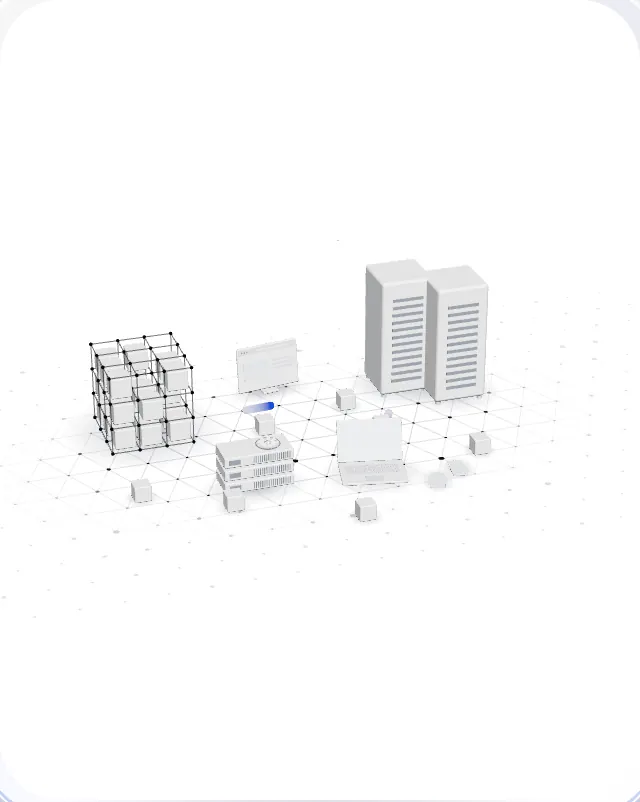
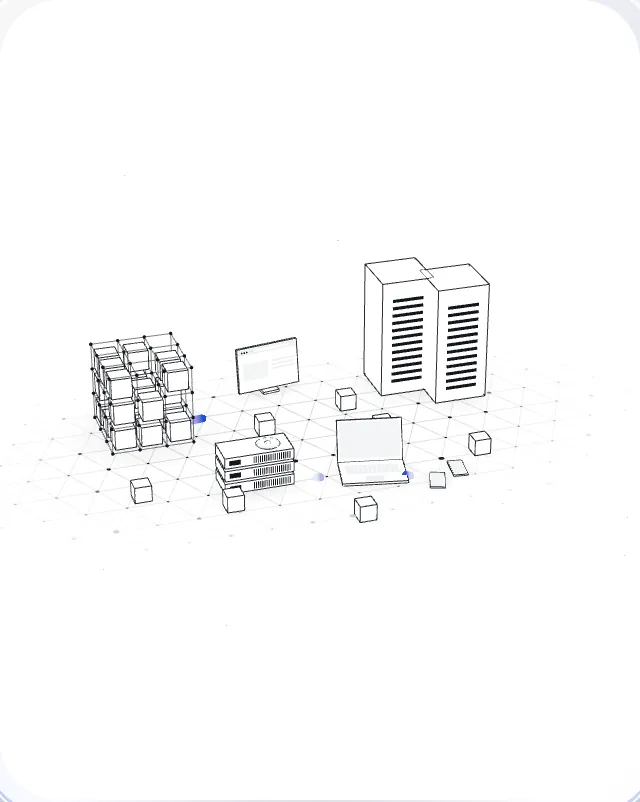
Room 3D : objets en dessin au trait, fils en éventail vers la toile, influx neuronaux et cascades à chaque message (style Bittensor)
Claude-Session: https://claude.ai/code/session_01JuJMrnUTFb6brfj3MM8BZk

diff --git a/assets/rooms/room-3d.js b/assets/rooms/room-3d.js
@@ -102,7 +102,7 @@ const reduit = matchMedia('(prefers-reduced-motion: reduce)').matches;
 const renderer = new THREE.WebGLRenderer({ antialias: true, alpha: true });
 const qualite = { dpr: Math.min(2, devicePixelRatio), n: 0, somme: 0 }; // quatre marches au plus : 2 → 1,5 → 1
 renderer.setPixelRatio(qualite.dpr);
-renderer.toneMapping = THREE.ACESFilmicToneMapping; renderer.toneMappingExposure = 1.05;
+renderer.toneMapping = THREE.NoToneMapping; // style encre : blanc pur et noir pur, sans rendu photographique
 renderer.outputColorSpace = THREE.SRGBColorSpace;
 host.appendChild(renderer.domElement);
 const scene = new THREE.Scene();
@@ -112,21 +112,23 @@ const camera = new THREE.PerspectiveCamera(C.camera.fov, 1, 0.1, 100);
 const ENCRE = new THREE.Color(C.couleurs.encre), BLEU = new THREE.Color(C.couleurs.bleu), BLANC = new THREE.Color('#ffffff');
 
 /* ── Matériaux : argile blanche mate + arêtes fines à l'encre, comme sur les images de référence ── */
-const argile = new THREE.MeshStandardMaterial({ color: C.couleurs.argile, roughness: .62, metalness: 0, envMapIntensity: .9 });
-const argileSombre = new THREE.MeshStandardMaterial({ color: '#c9ced6', roughness: .7 });
-const fente = new THREE.MeshStandardMaterial({ color: '#7d838e', roughness: .8 });
-const ecran = new THREE.MeshStandardMaterial({ color: '#dfe4ec', roughness: .25, metalness: 0 });
-const trait = new THREE.LineBasicMaterial({ color: C.couleurs.encre, transparent: true, opacity: .45 });
+// Style encre : chaque objet est un dessin technique (aplat blanc, contours noirs nets), comme la toile de la Room.
+const argile = new THREE.MeshBasicMaterial({ color: '#ffffff' });
+const argileSombre = new THREE.MeshBasicMaterial({ color: '#eef0f3' });
+const fente = new THREE.MeshBasicMaterial({ color: C.couleurs.encre });
+const ecran = new THREE.MeshBasicMaterial({ color: '#f4f5f7' });
+const trait = new THREE.LineBasicMaterial({ color: C.couleurs.encre, transparent: true, opacity: .9 });
 function piece(geo, mat, parent, x = 0, y = 0, z = 0, aretes = true) {
   const m = new THREE.Mesh(geo, mat); m.position.set(x, y, z); parent.add(m);
-  if (aretes) m.add(new THREE.LineSegments(new THREE.EdgesGeometry(geo, 35), trait));
+  // Contour net : pour une boîte arrondie, on trace le contour de la boîte droite (un seul trait par arête, pas les facettes de l'arrondi).
+  if (aretes) { const b = geo.userData.boite; m.add(new THREE.LineSegments(b ? new THREE.EdgesGeometry(new THREE.BoxGeometry(...b)) : new THREE.EdgesGeometry(geo, 35), trait)); }
   return m;
 }
-const bloc = (w, h, d, r = 0.02) => new RoundedBoxGeometry(w, h, d, 3, Math.min(r, w / 2 - 1e-3, h / 2 - 1e-3, d / 2 - 1e-3));
+const bloc = (w, h, d, r = 0.02) => { const g = new RoundedBoxGeometry(w, h, d, 3, Math.min(r, w / 2 - 1e-3, h / 2 - 1e-3, d / 2 - 1e-3)); g.userData.boite = [w, h, d]; return g; };
 
 /* ── Ombre de contact douce (texture dégradée), posée sous chaque objet ── */
 const texOmbre = (() => { const c = document.createElement('canvas'); c.width = c.height = 128; const g = c.getContext('2d');
-  const r = g.createRadialGradient(64, 64, 0, 64, 64, 64); r.addColorStop(0, 'rgba(20,23,28,.42)'); r.addColorStop(.55, 'rgba(20,23,28,.12)'); r.addColorStop(1, 'rgba(20,23,28,0)');
+  const r = g.createRadialGradient(64, 64, 0, 64, 64, 64); r.addColorStop(0, 'rgba(20,23,28,.16)'); r.addColorStop(.55, 'rgba(20,23,28,.05)'); r.addColorStop(1, 'rgba(20,23,28,0)');
   g.fillStyle = r; g.fillRect(0, 0, 128, 128); return new THREE.CanvasTexture(c); })();
 function ombre(parent, w, d) { const m = new THREE.Mesh(new THREE.PlaneGeometry(w, d), new THREE.MeshBasicMaterial({ map: texOmbre, transparent: true, depthWrite: false }));
   m.rotation.x = -Math.PI / 2; m.position.y = 0.002; m.renderOrder = -1; parent.add(m); (parent.userData.ombres ||= []).push(m.material); }
@@ -201,21 +203,21 @@ const FORMES = {
     ombre(g, .85, .45);
   },
   camion(g) {
-    const noir = new THREE.MeshStandardMaterial({ color: '#2a2e35', roughness: .8 });
+    const noir = new THREE.MeshBasicMaterial({ color: C.couleurs.encre });
     piece(bloc(.62, .34, .32, .02), argile, g, -.1, .1 + .17, 0);           // caisse
     piece(bloc(.24, .26, .3, .03), argile, g, .34, .1 + .13, 0);              // cabine
     piece(new THREE.BoxGeometry(.012, .1, .24), ecran, g, .462, .3, 0, false); // pare-brise
     piece(new THREE.BoxGeometry(.86, .04, .26), argileSombre, g, .02, .08, 0, false);
     [[-.3, 1], [-.3, -1], [.05, 1], [.05, -1], [.34, 1], [.34, -1]].forEach(([x, z]) => piece(new THREE.CylinderGeometry(.06, .06, .05, 20).rotateX(Math.PI / 2), noir, g, x, .06, z * .15, false));
     // Bande et toit peints : leur couleur montre la dernière information reçue.
-    const peinture = new THREE.MeshStandardMaterial({ color: C.couleurs.neutre, roughness: .5 }); g.userData.peinture = peinture;
+    const peinture = new THREE.MeshBasicMaterial({ color: C.couleurs.neutre }); g.userData.peinture = peinture;
     piece(new THREE.BoxGeometry(.6, .07, .326), peinture, g, -.1, .37, 0, false);
     piece(new THREE.BoxGeometry(.5, .012, .25), peinture, g, -.1, .446, 0, false);
     piece(new THREE.BoxGeometry(.2, .012, .22), peinture, g, .34, .366, 0, false);
     ombre(g, 1.1, .55);
   },
   drone(g) { // corps, quatre bras, hélices (disques flous), plaque de statut colorée
-    const peinture = new THREE.MeshStandardMaterial({ color: C.couleurs.neutre, roughness: .45 }); g.userData.peinture = peinture;
+    const peinture = new THREE.MeshBasicMaterial({ color: C.couleurs.neutre }); g.userData.peinture = peinture;
     const flou = new THREE.MeshBasicMaterial({ color: '#cfd5df', transparent: true, opacity: .55, depthWrite: false });
     piece(bloc(.17, .05, .17, .018), argile, g, 0, 0, 0);
     piece(new THREE.CylinderGeometry(.045, .045, .008, 24), peinture, g, 0, .03, 0, false);
@@ -299,6 +301,7 @@ const sommets = [], aretes = [];
   for (let i = 0; i < pa.count; i += 3) { const t = [id(i), id(i + 1), id(i + 2)]; [[0, 1], [1, 2], [2, 0]].forEach(([a, b]) => { const x = Math.min(t[a], t[b]), y = Math.max(t[a], t[b]), k = x + ',' + y; if (!vus.has(k)) { vus.add(k); aretes.push([x, y]); } }); }
 }
 const PROF = `float prof(vec3 p){ vec4 mv=modelViewMatrix*vec4(p,1.); float zc=(modelViewMatrix*vec4(0.,0.,0.,1.)).z; return clamp(.6+(mv.z-zc)*.32,.2,1.); }`;
+const noeudsToile = []; // nœuds de la toile (repère de la Room)
 const uRevele = { value: 0 }, uAttenue = { value: 1 }; // uAttenue : la bulle s'efface un peu quand les échanges commencent
 {
   const p = [], h = [];
@@ -313,6 +316,7 @@ const uRevele = { value: 0 }, uAttenue = { value: 1 }; // uAttenue : la bulle s'
   room.add(new THREE.LineSegments(g, matArete));
   // La toile : un sous-ensemble régulier de nœuds, chacun relié à TOUS les autres (multi-pair à pair, littéralement).
   const pas = Math.max(1, Math.floor(sommets.length / C.toile.noeuds)), choisis = sommets.filter((_, i) => i % pas === 0), tp = [];
+  noeudsToile.push(...choisis);
   for (let i = 0; i < choisis.length; i++) for (let j = i + 1; j < choisis.length; j++) tp.push(...choisis[i].toArray(), ...choisis[j].toArray());
   const tg = new THREE.BufferGeometry(); tg.setAttribute('position', new THREE.Float32BufferAttribute(tp, 3));
   const matToile = matArete.clone(); matToile.uniforms = { ...matArete.uniforms, uK: { value: C.toile.opacite } };
@@ -390,7 +394,7 @@ function tenter() {
 const cible = new THREE.Vector3(); let W = 1, H = 1, etroit = false;
 function cadrer() {
   W = host.clientWidth; H = host.clientHeight; etroit = W < 820;
-  renderer.setSize(W, H, false); camera.aspect = W / H; tMat.resolution.set(W, H); lMat.resolution.set(W, H); if (window.__fMat) window.__fMat.resolution.set(W, H);
+  renderer.setSize(W, H, false); camera.aspect = W / H; tMat.resolution.set(W, H); lMat.resolution.set(W, H); if (window.__fMat) window.__fMat.resolution.set(W, H); if (window.__iMat) window.__iMat.resolution.set(W, H);
   membres.forEach(g => g.userData.surSol = new THREE.Vector3(g.userData.x * (etroit ? .62 : 1), 0, g.userData.z));
 }
 let zoom = 0, decal = 0, vueRoute = 0; // vueRoute : la caméra regarde les routes (cas « flotte ») // decal : recentre la scène pendant les cas d'usage
@@ -461,7 +465,12 @@ for (let i = 0; i < MAXP; i++) paqMesh.setColorAt(i, COUL.encre); // couleur par
 let paquets = [];
 function envoyer(a, b, dur, o = {}) { paquets.push({ a, b, t0: horloge + (o.delai || 0), dur, taille: o.taille || .042, fin: o.fin, couleur: o.couleur || COUL.encre }); }
 // Point d'attache du fil sur la bulle : là où la ligne élément → centre traverse la sphère.
-const ancre = (p, out) => out.copy(p).sub(centreRoom).normalize().multiplyScalar(R.rayon * .98).add(centreRoom);
+const noeudMonde = (i, out) => out.copy(noeudsToile[i]).applyMatrix4(room.matrixWorld);
+// Les K nœuds de la toile les plus proches d'un point (en coordonnées du monde).
+const _nw = new THREE.Vector3();
+function plusProches(p, K) { const d = noeudsToile.map((_, i) => [i, noeudMonde(i, _nw).distanceToSquared(p)]); d.sort((a, b) => a[1] - b[1]); return d.slice(0, K).map(x => x[0]); }
+// Point d'attache : le nœud de la toile le plus proche (la donnée entre par un vrai nœud du réseau).
+const ancre = (p, out) => noeudMonde(plusProches(p, 1)[0], out);
 function posPaquet(p, t, out) {
   const sa = p.a.isObject3D && p.a.userData.satellite, sb = p.b.isObject3D && p.b.userData.satellite;
   if (sa || sb) { // le long du fil : élément extérieur → bord de la bulle → centre de la Room (ou l'inverse)
@@ -483,13 +492,25 @@ let cristalCible = 0, cristalPouls = 0;
 const cerclesLocaux = C.roles.entraineurs.map(() => { const pts = new THREE.EllipseCurve(0, 0, 1, 1, 0, Math.PI * 1.6).getPoints(40).map(p => new THREE.Vector3(p.x, 0, p.y));
   const l = new THREE.Line(new THREE.BufferGeometry().setFromPoints(pts), new THREE.LineBasicMaterial({ color: C.couleurs.encre, transparent: true, opacity: 0 })); scene.add(l); return l; });
 // Fils : un trait fin de chaque élément extérieur jusqu'à la bulle ; il s'éclaire quand une donnée y passe.
-const MAXF = tousSat.length, fPos = new Float32Array(MAXF * 6), fCol = new Float32Array(MAXF * 6).fill(1);
+const EVENTAIL = 6, MAXF = tousSat.length * EVENTAIL, fPos = new Float32Array(MAXF * 6), fCol = new Float32Array(MAXF * 6).fill(1);
 const fGeo = new LineSegmentsGeometry(); fGeo.setPositions(fPos); fGeo.setColors(fCol);
-const fMat = new LineMaterial({ vertexColors: true, linewidth: 1.6, worldUnits: false });
+const fMat = new LineMaterial({ vertexColors: true, linewidth: 1.1, worldUnits: false });
 window.__fMat = fMat; fMat.resolution.set(W, H);
 const fLignes = new LineSegments2(fGeo, fMat); fLignes.frustumCulled = false; scene.add(fLignes);
 const FIL = new THREE.Color(C.couleurs.encre).lerp(BLANC, .72);
 const puceEvt = puce('', 'r3d-chip r3d-c');
+/* Influx : une impulsion qui file d'un nœud à un autre (tête nette, queue qui s'efface), comme un signal dans un réseau de neurones.
+   En fond, quelques influx noirs discrets : la Room vit. Lors d'un message, une cascade bleue (ou noire) part du nœud d'entrée. */
+const MAXI = 160, iPos = new Float32Array(MAXI * 6), iCol = new Float32Array(MAXI * 6).fill(1);
+const iGeo = new LineSegmentsGeometry(); iGeo.setPositions(iPos); iGeo.setColors(iCol);
+const iMat = new LineMaterial({ vertexColors: true, linewidth: 1.4, worldUnits: false }); window.__iMat = iMat; iMat.resolution.set(W, H);
+const iLignes = new LineSegments2(iGeo, iMat); iLignes.frustumCulled = false; scene.add(iLignes);
+let influx = [];
+function influer(i, j, coul, o = {}) { if (influx.length < MAXI) influx.push({ i, j, t0: horloge + (o.delai || 0), dur: o.dur || .45, coul, force: o.force || 1 }); }
+// Cascade : le nœud d'entrée excite plusieurs voisins, qui en excitent d'autres (deux vagues).
+function cascade(depuis, coul, n1 = 8, n2 = 3) { const N = noeudsToile.length; for (let a = 0; a < n1; a++) { const j = Math.floor(Math.random() * N); if (j === depuis) continue;
+    influer(depuis, j, coul, { dur: .42 }); for (let b = 0; b < n2; b++) influer(j, Math.floor(Math.random() * N), coul, { delai: .42, dur: .42, force: .75 }); } }
+let prochainInflux = 0;
 let evtTxt = '', evtSat = null, resCouleur = 'bleu', etatsInfos = [];
 const badge = document.getElementById('r3d-badge');
 if (INTEGRE) document.getElementById('r3d-texte').appendChild(badge);
@@ -523,11 +544,11 @@ function activite(dt) {
     if (t > evt) { Ss[Math.floor(Math.random() * Ss.length)].actif = .55; evt = t + .7; }
     let derniere = -1;
     infos.forEach((inf, k) => { if (t < inf.t) return; derniere = k; const cl = COUL[inf.couleur], src = Ss[inf.source];
-      if (!etatsInfos[k]) { etatsInfos[k] = { recus: 0 }; src.vise.copy(cl); anneau(src.g, .42, cl);
+      if (!etatsInfos[k]) { etatsInfos[k] = { recus: 0 }; src.vise.copy(cl); anneau(src.g, .24, cl);
         // 1) la nouvelle monte vers la Room ; 2) la Room la renvoie à tous, en même temps (dehors et dedans)
-        envoyer(src.g, 'c', 1.2, { taille: .055, couleur: cl, fin: () => { anneau('c', .55, cl);
+        envoyer(src.g, 'c', 1.2, { taille: .055, couleur: cl, fin: () => { anneau('c', .55, cl); cascade(plusProches(centreDe(src.g, v1), 1)[0], cl, 10, 3);
           const cibles = Ss.filter(s => s !== src).map(s => s.g);
-          cibles.forEach(c => envoyer('c', c, 1.4, { taille: .05, couleur: cl, fin: () => { etatsInfos[k].recus++; anneau(c, c.isObject3D ? .38 : .3, cl); if (c.isObject3D) c.userData.satellite.vise.copy(cl); } })); } }); }
+          cibles.forEach(c => envoyer('c', c, 1.4, { taille: .05, couleur: cl, fin: () => { etatsInfos[k].recus++; anneau(c, c.isObject3D ? .2 : .3, cl); if (c.isObject3D) c.userData.satellite.vise.copy(cl); } })); } }); }
     });
     if (derniere < 0) afficherBadge(cas === 'flotte' ? TX.reliesCamions : TX.reliesDrones);
     else { const inf = infos[derniere], st = etatsInfos[derniere], cl = inf.couleur; evtSat = Ss[inf.source]; evtTxt = TX[inf.evt];
@@ -566,7 +587,7 @@ function activite(dt) {
     else {
     const cycle = 2.4, k = Math.floor(tc / cycle), u = tc - k * cycle;
     if (evt <= k * 3 && u > 1.1) { evt = k * 3 + 1; W.forEach(i => envoyer(i, 'c', .55, { taille: .03, couleur: COUL.bleu })); }
-    if (evt === k * 3 + 1 && u > 1.7) { evt = k * 3 + 2; cristalPouls = 1; anneau('c', .5, COUL.bleu); tour = k + 1; W.forEach(i => envoyer('c', i, .55, { taille: .04, couleur: COUL.bleu, fin: () => anneau(i, .28, COUL.bleu) })); }
+    if (evt === k * 3 + 1 && u > 1.7) { evt = k * 3 + 2; cristalPouls = 1; anneau('c', .5, COUL.bleu); cascade(Math.floor(Math.random() * noeudsToile.length), COUL.bleu, 8, 2); tour = k + 1; W.forEach(i => envoyer('c', i, .55, { taille: .04, couleur: COUL.bleu, fin: () => anneau(i, .28, COUL.bleu) })); }
     cerclesLocaux.forEach((l, j) => { const g = membres[W[j]]; centreDe(W[j], l.position); l.position.y -= .06; l.scale.setScalar(.3 * g.scale.x / .62 + .05);
       l.rotation.y -= dt * (u < 1.1 ? 5 : 1); l.material.opacity = u < 1.1 ? .85 : .25; });
     afficherBadge(u < 1.1 ? f(TX.diloco, { k: k + 1 }) : TX.miseEnCommun);
@@ -616,11 +637,24 @@ function dessinerEchanges() {
   const okS = false; puceSource.style.opacity = okS ? 1 : 0; if (okS) placer(puceSource, v1.copy(objets[C.roles.source].position).setY(objets[C.roles.source].position.y - .06));
   const okM = mon && modeCourant.startsWith('entrainement') && !(casCourant === 'ia' && tEtape > 6.0); puceModele.style.opacity = okM ? 1 : 0;
   if (okM) { tA.copy(centreRoom).setY(centreRoom.y - .3).project(camera); puceModele.style.left = ((tA.x + 1) / 2 * W + offL) + 'px'; puceModele.style.top = ((1 - tA.y) / 2 * H + off) + 'px'; }
+  // Influx de fond : la toile s'active doucement (plus discret quand une histoire se joue dehors).
+  if (m > .9 && !reduit && horloge > prochainInflux) { const N = noeudsToile.length; influer(Math.floor(Math.random() * N), Math.floor(Math.random() * N), COUL.encre, { dur: .7, force: .55 }); prochainInflux = horloge + .07; }
+  { let n = 0; const garde = [];
+    for (const f of influx) { const e = (horloge - f.t0) / f.dur; if (e >= 1.35) continue; garde.push(f); if (e < 0 || n >= MAXI) continue;
+      noeudMonde(f.i, tA); noeudMonde(f.j, tB); const tete = Math.min(1, e), queue = Math.max(0, e - .45);
+      tC.copy(tA).lerp(tB, queue).toArray(iPos, n * 6); v2.copy(tA).lerp(tB, tete).toArray(iPos, n * 6 + 3);
+      const fin = e > 1 ? 1 - (e - 1) / .35 : 1, ct = f.coul.clone().lerp(BLANC, 1 - .9 * f.force * fin), cq = f.coul.clone().lerp(BLANC, 1 - .15 * f.force * fin);
+      iCol.set([cq.r, cq.g, cq.b, ct.r, ct.g, ct.b], n * 6); n++; }
+    for (let k = n; k < MAXI; k++) { iPos.fill(0, k * 6, k * 6 + 6); iCol.fill(1, k * 6, k * 6 + 6); }
+    influx = garde; iGeo.setPositions(iPos); iGeo.setColors(iCol); }
   // Fils des éléments extérieurs
-  tousSat.forEach((s, k) => { if (s.vis < .02) { fPos.fill(0, k * 6, k * 6 + 6); fCol.fill(1, k * 6, k * 6 + 6); return; }
-    centreDe(s.g, tA); ancre(tA, tB); tA.toArray(fPos, k * 6); tB.toArray(fPos, k * 6 + 3);
-    const c = FIL.clone().lerp(s.coul.equals(COUL.neutre) ? COUL.encre : s.coul, .15 + .7 * s.actif).lerp(BLANC, 1 - s.vis * (s.g.scale.x / (s.cfg.echelle || 1)));
-    fCol.set([c.r, c.g, c.b, c.r, c.g, c.b], k * 6); });
+  tousSat.forEach((s, k) => { const vu = s.vis * (s.g.scale.x / (s.cfg.echelle || 1));
+    if (vu < .02) { for (let e = 0; e < EVENTAIL; e++) { const o = (k * EVENTAIL + e) * 6; fPos.fill(0, o, o + 6); fCol.fill(1, o, o + 6); } return; }
+    centreDe(s.g, tA); const proches = plusProches(tA, EVENTAIL);
+    proches.forEach((ni, e) => { const o = (k * EVENTAIL + e) * 6; noeudMonde(ni, tB); tA.toArray(fPos, o); tB.toArray(fPos, o + 3);
+      // Le premier fil (le plus court) porte la donnée ; les autres forment l'éventail, plus pâles.
+      const base = e === 0 ? .2 : .07, c = FIL.clone().lerp(s.coul.equals(COUL.neutre) ? COUL.encre : s.coul, base + (e === 0 ? .7 : .35) * s.actif).lerp(BLANC, 1 - vu);
+      const pale = c.clone().lerp(BLANC, .55); fCol.set([c.r, c.g, c.b, pale.r, pale.g, pale.b], o); }); });
   fGeo.setPositions(fPos); fGeo.setColors(fCol);
   puceEvt.style.opacity = evtTxt && evtSat && m > .97 ? 1 : 0; if (evtTxt && evtSat) { puceEvt.textContent = evtTxt; placer(puceEvt, v1.copy(evtSat.g.position).setY(evtSat.g.position.y + .45), -26); }
   puceSortie.classList.toggle('r3d-vert', resCouleur === 'vert'); puceSortie.classList.toggle('r3d-encre', resCouleur === 'encre');

diff --git a/fr/index.html b/fr/index.html
@@ -102,7 +102,7 @@ a:focus-visible,button:focus-visible,select:focus-visible{outline:2px solid #235
         <div style="padding: 10px; border-radius: 40px; background: linear-gradient(160deg, rgba(255,255,255,0.55) 0%, rgba(170,190,255,0.22) 40%, rgba(255,255,255,0.10) 100%); border: 1px solid rgba(255,255,255,0.55); box-shadow: inset 0 2px 0 rgba(255,255,255,0.7), inset 0 -2px 0 rgba(35,80,216,0.25), 0 2px 0 rgba(255,255,255,0.35), 0 12px 24px -8px rgba(7,15,74,0.35), 0 40px 80px -24px rgba(7,15,74,0.55), 0 90px 140px -60px rgba(35,80,216,0.55); -webkit-backdrop-filter: blur(10px); backdrop-filter: blur(10px);">
           <section class="r3d r3d-integre" id="rooms" aria-label="Les Rooms en action">
             <div class="r3d-legende" id="r3d-texte"><p class="r3d-sur" id="r3d-sur">Aujourd'hui</p><p class="r3d-titre" id="r3d-titre">Vos machines travaillent chacune dans leur coin.</p></div>
-            <div class="r3d-scene" id="r3d-scene" role="img" aria-label="Animation : des machines isolées entrent dans une Room, une bulle privée où elles échangent des données directement ; exemples : entraînement d’une IA, mise à jour d’une flotte de camions, partenaire invité puis retiré."><picture class="r3d-poster"><source media="(max-width:820px)" srcset="/assets/rooms/poster-hero-mobile.webp"><img src="/assets/rooms/poster-hero.webp" alt="" width="1020" height="638" decoding="async" fetchpriority="high"></picture></div>
+            <div class="r3d-scene" id="r3d-scene" role="img" aria-label="Animation : des machines isolées entrent dans une Room, une bulle privée où elles échangent des données directement ; exemples : entraînement d’une IA, mise à jour d’une flotte de camions, partenaire invité puis retiré."><picture class="r3d-poster"><source media="(max-width:820px)" srcset="/assets/rooms/poster-hero-mobile.webp?v=2"><img src="/assets/rooms/poster-hero.webp?v=2" alt="" width="1020" height="638" decoding="async" fetchpriority="high"></picture></div>
             <div class="r3d-barre"><div class="r3d-nav" id="r3d-nav"><button class="r3d-pause" id="r3d-pause" type="button" aria-label="Mettre en pause l'animation"></button></div></div>
             <div class="r3d-tip" id="r3d-tip"></div>
             <div class="r3d-badge" id="r3d-badge" aria-hidden="true"></div>
@@ -513,7 +513,7 @@ class Component extends DCLogic {
 /* Room 3D du héros : chargée juste après l'affichage de la page (l'image fixe est déjà là), sans retarder le premier rendu.
    Le corps de la page est rendu après coup par le moteur de composants : on attend que la scène existe hors du gabarit. */
 (function () { var fait = false;
-  function go() { var s = document.getElementById('rooms'); if (fait || !s || s.closest('x-dc')) return; fait = true; import('/assets/rooms/room-3d.js?v=9'); }
+  function go() { var s = document.getElementById('rooms'); if (fait || !s || s.closest('x-dc')) return; fait = true; import('/assets/rooms/room-3d.js?v=11'); }
   function plusTard() { (window.requestIdleCallback || function (f) { setTimeout(f, 200); })(go, { timeout: 1500 }); }
   var t = setInterval(function () { if (fait) return clearInterval(t); if (document.readyState === 'complete') plusTard(); }, 250); })();
 </script>

diff --git a/en/index.html b/en/index.html
@@ -102,7 +102,7 @@ a:focus-visible,button:focus-visible,select:focus-visible{outline:2px solid #235
         <div style="padding: 10px; border-radius: 40px; background: linear-gradient(160deg, rgba(255,255,255,0.55) 0%, rgba(170,190,255,0.22) 40%, rgba(255,255,255,0.10) 100%); border: 1px solid rgba(255,255,255,0.55); box-shadow: inset 0 2px 0 rgba(255,255,255,0.7), inset 0 -2px 0 rgba(35,80,216,0.25), 0 2px 0 rgba(255,255,255,0.35), 0 12px 24px -8px rgba(7,15,74,0.35), 0 40px 80px -24px rgba(7,15,74,0.55), 0 90px 140px -60px rgba(35,80,216,0.55); -webkit-backdrop-filter: blur(10px); backdrop-filter: blur(10px);">
           <section class="r3d r3d-integre" id="rooms" aria-label="Rooms in action">
             <div class="r3d-legende" id="r3d-texte"><p class="r3d-sur" id="r3d-sur">Today</p><p class="r3d-titre" id="r3d-titre">Your machines each work in their own corner.</p></div>
-            <div class="r3d-scene" id="r3d-scene" role="img" aria-label="Animation: isolated machines join a Room, a private bubble where they exchange data directly; examples: training an AI, updating a truck fleet, inviting a partner and removing their access."><picture class="r3d-poster"><source media="(max-width:820px)" srcset="/assets/rooms/poster-hero-mobile.webp"><img src="/assets/rooms/poster-hero.webp" alt="" width="1020" height="638" decoding="async" fetchpriority="high"></picture></div>
+            <div class="r3d-scene" id="r3d-scene" role="img" aria-label="Animation: isolated machines join a Room, a private bubble where they exchange data directly; examples: training an AI, updating a truck fleet, inviting a partner and removing their access."><picture class="r3d-poster"><source media="(max-width:820px)" srcset="/assets/rooms/poster-hero-mobile.webp?v=2"><img src="/assets/rooms/poster-hero.webp?v=2" alt="" width="1020" height="638" decoding="async" fetchpriority="high"></picture></div>
             <div class="r3d-barre"><div class="r3d-nav" id="r3d-nav"><button class="r3d-pause" id="r3d-pause" type="button" aria-label="Pause the animation"></button></div></div>
             <div class="r3d-tip" id="r3d-tip"></div>
             <div class="r3d-badge" id="r3d-badge" aria-hidden="true"></div>
@@ -513,7 +513,7 @@ class Component extends DCLogic {
 /* Room 3D du héros : chargée juste après l'affichage de la page (l'image fixe est déjà là), sans retarder le premier rendu.
    Le corps de la page est rendu après coup par le moteur de composants : on attend que la scène existe hors du gabarit. */
 (function () { var fait = false;
-  function go() { var s = document.getElementById('rooms'); if (fait || !s || s.closest('x-dc')) return; fait = true; import('/assets/rooms/room-3d.js?v=9'); }
+  function go() { var s = document.getElementById('rooms'); if (fait || !s || s.closest('x-dc')) return; fait = true; import('/assets/rooms/room-3d.js?v=11'); }
   function plusTard() { (window.requestIdleCallback || function (f) { setTimeout(f, 200); })(go, { timeout: 1500 }); }
   var t = setInterval(function () { if (fait) return clearInterval(t); if (document.readyState === 'complete') plusTard(); }, 250); })();
 </script>

diff --git a/apercu/room-3d/index.html b/apercu/room-3d/index.html
@@ -22,6 +22,6 @@
   <div class="r3d-tip" id="r3d-tip"></div>
   <div class="r3d-badge" id="r3d-badge" aria-hidden="true"></div>
 </section>
-<script type="module" src="/assets/rooms/room-3d.js?v=9"></script>
+<script type="module" src="/assets/rooms/room-3d.js?v=11"></script>
 </body>
 </html>
